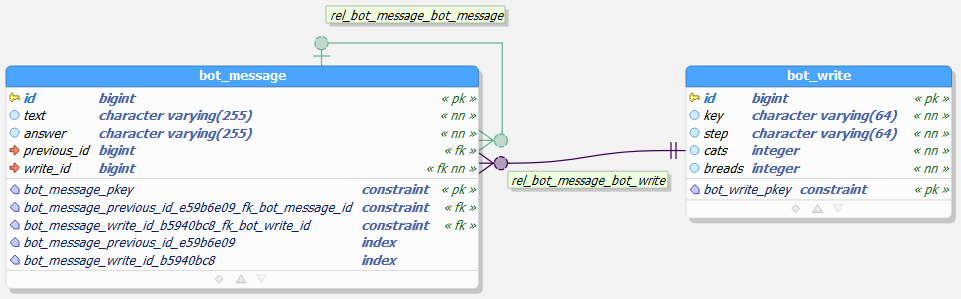
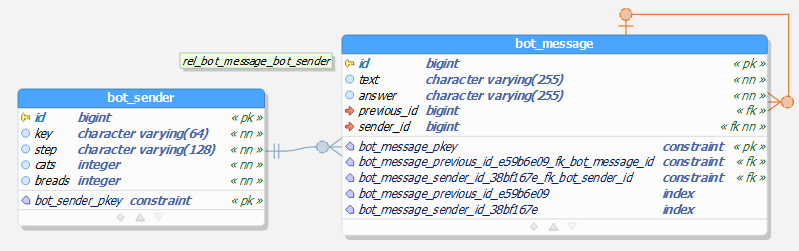
Правка README.md, изображения схемы БД

diff --git a/README.md b/README.md
@@ -11,7 +11,7 @@ git pull origin main
 ```bash
 docker-compose up -d --build
 ```
-4. Регестрируем нового пользователя для доступа в админ-панель (необязательно, там можно создать новые экземпляры классов вручную):
+4. Регистрируем нового пользователя для доступа в админ-панель (необязательно, там можно создать новые экземпляры классов вручную):
 ```bash
 docker-compose exec backend python3 manage.py createsuperuser
 ```
@@ -21,21 +21,21 @@ docker-compose exec backend python3 manage.py test
 ```
 
 # Что посмотреть
-Во-первых схему БД пользовательских моделей:
+Во-первых, схему БД пользовательских моделей:
 ![alt text](https://github.com/aftern0on/django-bot-testing/blob/main/img/db_view.png)
-* __`Writer` - модель записи пользователя__
-  * _`key` - идентификатор пользователя_
-  * _`step` - статус пользователя в диалоге_
-  * _`cats` - количество съеденых котов_
-  * _`breads` - количество съеденого хлеба_
-* __`Message` - модель сообщения пользователя__
+* __`Sender` - модель записи отправителя__
+  * _`key` - идентификатор отправителя_
+  * _`step` - статус отправителя в диалоге_
+  * _`cats` - количество съеденных котов_
+  * _`breads` - количество съеденного хлеба_
+* __`Message` - модель сообщения отправителя__
   * _`text` - текст сообщения_
   * _`answer` - текст ответа бота_
   * _`previous_id` - ссылка на прошлое сообщение_
-  * _`write_id` - ссылка на запись пользователя_
+  * _`sender_id` - ссылка на запись отправителя_
   
 В Swagger можно посмотреть документацию по API: `127.0.0.1:8000/api/docs/`  
 В админ-панели также можно посмотреть на записи: `127.0.0.1:8000/admin/`  
-В ![backend/apps/util/cat.py](https://github.com/aftern0on/django-bot-testing/blob/main/backend/apps/util/cat.py) можно посмотреть алгоритм диалога и распознование ошибок  
+В ![backend/apps/util/dialogue.py](https://github.com/aftern0on/django-bot-testing/blob/main/backend/apps/util/dialogue.py) можно посмотреть алгоритм диалога и распознавание ошибок  
 В ![backend/apps/bot/models.py](https://github.com/aftern0on/django-bot-testing/blob/main/backend/apps/bot/models.py) можно посмотреть описание моделей  
-В ![backend/apps/bot/tests.py](https://github.com/aftern0on/django-bot-testing/blob/main/backend/apps/bot/tests.py) можно посмотреть на некрасивую реализацию тестов
+В ![backend/apps/bot/tests.py](https://github.com/aftern0on/django-bot-testing/blob/main/backend/apps/bot/tests.py) можно посмотреть на реализацию тестов
